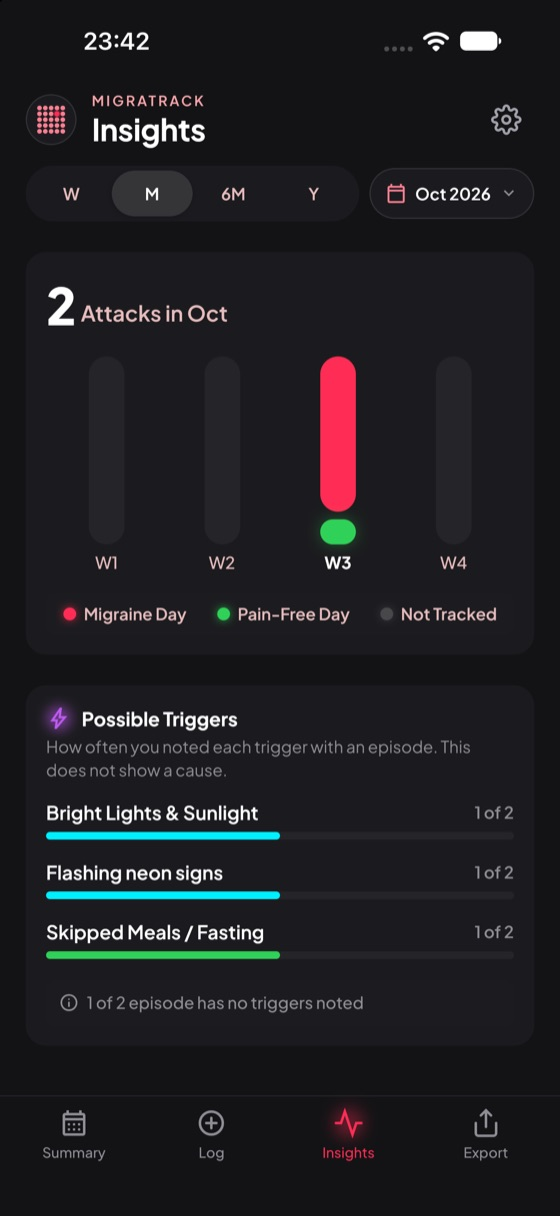
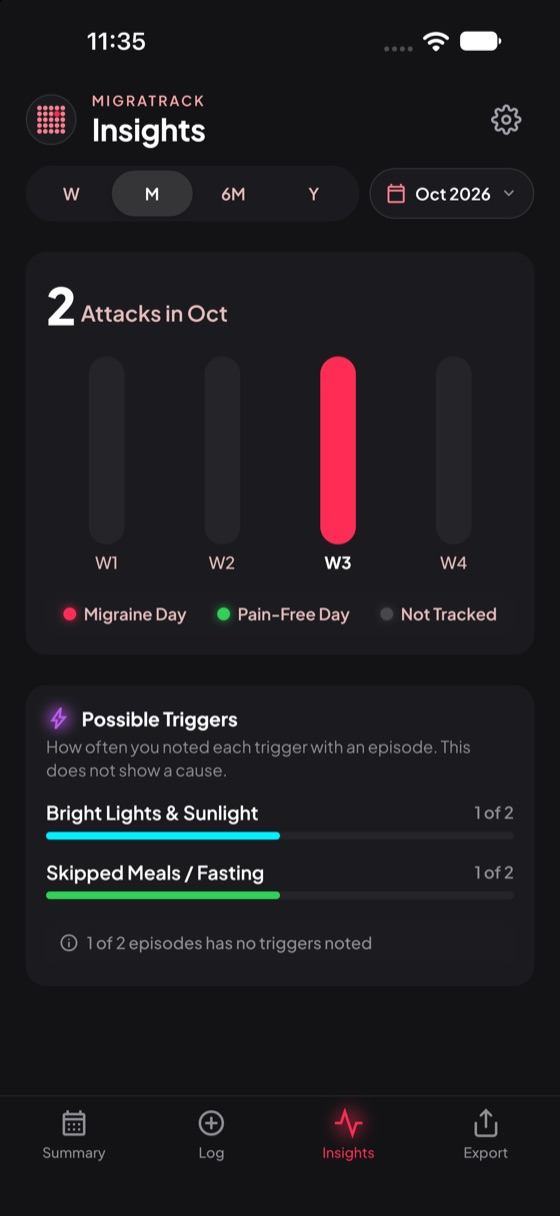
Show the four fixes in the user journey and retake the three screenshots that had the faults
The Export screen, the first day in Insights and page 2 of the PDF were taken again on 17 October with the fixed build. That quick run used a shorter onboarding, so page 1 of the PDF and the Excel sheet stay from the full run, where the profile matches steps 4–6.

diff --git a/docs/user-journey/index.html b/docs/user-journey/index.html
@@ -169,9 +169,9 @@ dialog p { color: #f4f1f2; text-align: center; font-size: 14px; margin-top: 10px
     <span class="eyebrow">End-to-end test · 4 October 2026 · run again 16–17 October</span>
     <h1>The <em>MigraTrack</em> user journey on iPhone and Apple Watch</h1>
     <p>The test starts with a clean install on both devices. The user meets Siri before setup, reads the welcome screen and the terms, and completes onboarding. Then the user logs attacks on the iPhone, on the watch and with Spotlight, opens the watch logger from the watch face and from the Smart Stack, reads the charts, and exports a report. Steps 19–24 show the Insights calendar, Edit Episode and logging on a past day. Step 25 deletes all data. After each action I compared the SQLite databases on both devices. Click a screenshot to enlarge it.</p>
-    <p>On 16 and 17 October I ran all 25 steps again on the build of main at 9cf4720. Since the last run, the app got a dot-grid mark in the header, a new icon, ICHD-3 onboarding texts, Health texts for last night's sleep only, and a doctor reminder on the last onboarding step. Possible triggers are new in the Log form, in Insights and in the report. The run started at 23:30 on 16 October and continued after midnight, so some steps happen on 17 October. The screenshots of the complications (step 12) and of the Control tap stay from 13 October, because these screens did not change.</p>
+    <p>On 16 and 17 October I ran all 25 steps again on the build of main at 9cf4720. Since the last run, the app got a dot-grid mark in the header, a new icon, ICHD-3 onboarding texts, Health texts for last night's sleep only, and a doctor reminder on the last onboarding step. Possible triggers are new in the Log form, in Insights and in the report. The run started at 23:30 on 16 October and continued after midnight, so some steps happen on 17 October. The screenshots of the complications (step 12) and of the Control tap stay from 13 October, because these screens did not change. The run found four small faults. After their fix, I took the Export screen, the first day in Insights and page 2 of the PDF again on 17 October.</p>
     <div class="facts">
-      <div class="fact"><b class="ok">25 of 25</b><span>steps passed, four small findings</span></div>
+      <div class="fact"><b class="ok">25 of 25</b><span>steps passed, four small faults fixed</span></div>
       <div class="fact"><b>iPhone 18 Pro Max</b><span>simulator, iOS 27.0</span></div>
       <div class="fact"><b>Watch Series 12</b><span>46 mm, watchOS 27.0, paired with the iPhone</span></div>
       <div class="fact"><b>73</b><span>screenshots, Debug 1.0.0 (1)</span></div>
@@ -417,11 +417,11 @@ dialog p { color: #f4f1f2; text-align: center; font-size: 14px; margin-top: 10px
       <div class="story">
         <span class="device phone">iPhone</span>
         <h2>Insights on the first day</h2>
-        <p>Insights counts only from the day tracking started. Weeks 1 and 2 of October are gray, and the legend adds <strong>Not Tracked</strong>.</p>
-        <p>Under the chart, the Possible Triggers card lists the triggers that the user noted, as "1 of 2" with a bar. The card says that it shows how often a trigger was noted, not a cause. A last line counts the episodes with no triggers: the watch log has none.</p>
+        <p>Insights counts only from the day tracking started. Weeks 1 and 2 of October are gray, and the legend adds <strong>Not Tracked</strong>. Week 3 has one tracked day, and it is an attack day, so its bar is all pink.</p>
+        <p>Under the chart, the Possible Triggers card lists the triggers that the user noted, as "1 of 2" with a bar. The card says that it shows how often a trigger was noted, not a cause. A last line counts the episodes with no triggers: "1 of 2 episodes has no triggers noted". The watch log has none.</p>
       </div>
       <div class="shots">
-        <figure><button class="shot" type="button"><img src="img/p56-insights-first-day.jpg" alt="Insights for October on the first day: 2 attacks, weeks 1 and 2 gray, legend with Not Tracked, Possible Triggers card with three triggers at 1 of 2" loading="lazy" width="560" height="1216"></button><figcaption>Not Tracked and Possible Triggers</figcaption></figure>
+        <figure><button class="shot" type="button"><img src="img/p56-insights-first-day.jpg" alt="Insights for October on the first day: 2 attacks, weeks 1 and 2 gray, week 3 all pink, legend with Not Tracked, Possible Triggers card with two triggers at 1 of 2, and 1 of 2 episodes has no triggers noted" loading="lazy" width="560" height="1216"></button><figcaption>Not Tracked and Possible Triggers</figcaption></figure>
       </div>
     </article>
 
@@ -477,15 +477,15 @@ dialog p { color: #f4f1f2; text-align: center; font-size: 14px; margin-top: 10px
       <div class="story">
         <span class="device phone">iPhone</span>
         <h2>Export to PDF and Excel</h2>
-        <p>Export shows the number of episodes and the report range. An action sheet changes the range. The toggles select the sections, and <strong>Possible Triggers</strong> is a new toggle.</p>
-        <p>The PDF opens in Quick Look. Page 1 has the profile, the pain chart, the medications and the symptoms. Page 2 has the "Possible Triggers Noted" section and the episode log with a Triggers column. The report shows no time of intake. Excel goes through the system share sheet.</p>
+        <p>Export shows the number of episodes and the report range. An action sheet changes the range. The toggles select the sections, and <strong>Possible Triggers</strong> is a new toggle. Medication Logs says "Dosages and usage totals", because the report shows no time of intake.</p>
+        <p>The PDF opens in Quick Look. Page 1 has the profile, the pain chart, the medications and the symptoms. Page 2 has the "Possible Triggers Noted" section and the episode log with a Triggers column. The disclaimer line ends the last page with content and does not start a page of its own. Excel goes through the system share sheet.</p>
         <div class="check">.xlsx on the Mac: <code>unzip -t</code> without errors, 11 rows for 90 days, dates as real dates, a Possible Triggers column</div>
       </div>
       <div class="shots">
-        <figure><button class="shot" type="button"><img src="img/p29-export.jpg" alt="Export: 11 events in the last 90 days, toggles Medication Logs, Aura and Warning Symptoms, Possible Triggers, Pain Level Charts" loading="lazy" width="560" height="1216"></button><figcaption>Export</figcaption></figure>
+        <figure><button class="shot" type="button"><img src="img/p29-export.jpg" alt="Export: 11 events in the last 90 days, toggles Medication Logs with Dosages and usage totals, Aura and Warning Symptoms, Possible Triggers, Pain Level Charts" loading="lazy" width="560" height="1216"></button><figcaption>Export</figcaption></figure>
         <figure><button class="shot" type="button"><img src="img/p30-export-range.jpg" alt="Action sheet Report Range" loading="lazy" width="560" height="1216"></button><figcaption>Report range</figcaption></figure>
         <figure><button class="shot" type="button"><img src="img/p31-pdf-preview.jpg" alt="PDF report page 1 in Quick Look: Patient Alex Morgan, 11 episodes, 10 migraine days, 80 pain-free days, baseline profile, chart, medications" loading="lazy" width="560" height="1216"></button><figcaption>PDF page 1</figcaption></figure>
-        <figure><button class="shot" type="button"><img src="img/p58-pdf-triggers-log.jpg" alt="PDF page 2: Possible Triggers Noted with shares of episodes, and the episode log with a Triggers column" loading="lazy" width="560" height="1216"></button><figcaption>PDF page 2: triggers and log</figcaption></figure>
+        <figure><button class="shot" type="button"><img src="img/p58-pdf-triggers-log.jpg" alt="PDF page 2 of 2: Possible Triggers Noted with shares of episodes, the episode log with a Triggers column, and the disclaimer line above the page number" loading="lazy" width="560" height="1216"></button><figcaption>PDF page 2: triggers and log</figcaption></figure>
         <figure><button class="shot" type="button"><img src="img/p32-xlsx-share.jpg" alt="Share sheet with MigraTrack-Report-2026-10-17.xlsx" loading="lazy" width="560" height="1216"></button><figcaption>Share sheet with .xlsx</figcaption></figure>
         <figure class="wide"><button class="shot" type="button"><img src="img/x01-xlsx-quicklook.jpg" alt="Episodes sheet of the xlsx file in Quick Look on the Mac, with the column Possible Triggers" loading="lazy" width="1200" height="192"></button><figcaption>Episodes sheet of the same file on the Mac</figcaption></figure>
       </div>
@@ -642,24 +642,21 @@ dialog p { color: #f4f1f2; text-align: center; font-size: 14px; margin-top: 10px
     <div class="section-head">
       <span class="eyebrow">Notes</span>
       <h2 id="notes">What I noticed</h2>
-      <p>No step failed, and no data was lost. Below are four small findings of this run, two design notes, one platform limit and the simulator details.</p>
+      <p>No step failed, and no data was lost. Below are the four faults that this run found and that are now fixed, two design notes, one platform limit and the simulator details.</p>
     </div>
     <div class="notes">
       <div class="note">
-        <h3><span class="pill note">Text</span>Export promises intake times</h3>
-        <p>The Medication Logs toggle says "Dosages, intake times, usage totals". Since PR #15 the PDF and the XLSX show no intake time. The subtitle needs a new text.</p>
+        <h3><span class="pill pass">Fixed</span>Four small faults of this run</h3>
+        <ul>
+          <li>The Medication Logs toggle in Export promised intake times. It now says "Dosages and usage totals".</li>
+          <li>The PDF of 11 episodes had a page 3 with only the disclaimer. The line now uses the footer space of the last page.</li>
+          <li>Insights said "1 of 3 episode has no triggers noted". It now says "1 of 3 episodes has", and the PDF uses the same text.</li>
+          <li>A bar with only attack days showed a green part. It is now all pink.</li>
+        </ul>
       </div>
       <div class="note">
-        <h3><span class="pill note">PDF</span>A page with only the disclaimer</h3>
-        <p>The 90-day report with 11 episodes has three pages. Page 3 has only the line "Self-reported data logged in MigraTrack…". The line can go on page 2, or the log can leave space for it.</p>
-      </div>
-      <div class="note">
-        <h3><span class="pill note">Text</span>"1 of 3 episode has"</h3>
-        <p>The last line of Possible Triggers chooses the noun from the first number. With 1 it says "1 of 3 episode has no triggers noted". The correct text is "1 of 3 episodes has".</p>
-      </div>
-      <div class="note">
-        <h3><span class="pill note">Chart</span>A bar with only attack days shows green</h3>
-        <p>The pink part of a bar stays between 14% and 86%. On the first day, week 3 of October had one tracked day, and it was an attack day. The bar still shows a green part. The 14% minimum also makes months with 1 and 4 migraine days look the same in 6M and Y.</p>
+        <h3><span class="pill note">Design</span>Months in 6M and Y look similar</h3>
+        <p>The pink part of a bar stays at 14% or more, so that one migraine day stays visible. Thus months with 1 and with 4 migraine days look the same. A smaller minimum or the number of days above the bar can help.</p>
       </div>
       <div class="note">
         <h3><span class="pill note">Design</span>The calendar mockups do not show all behavior</h3>
